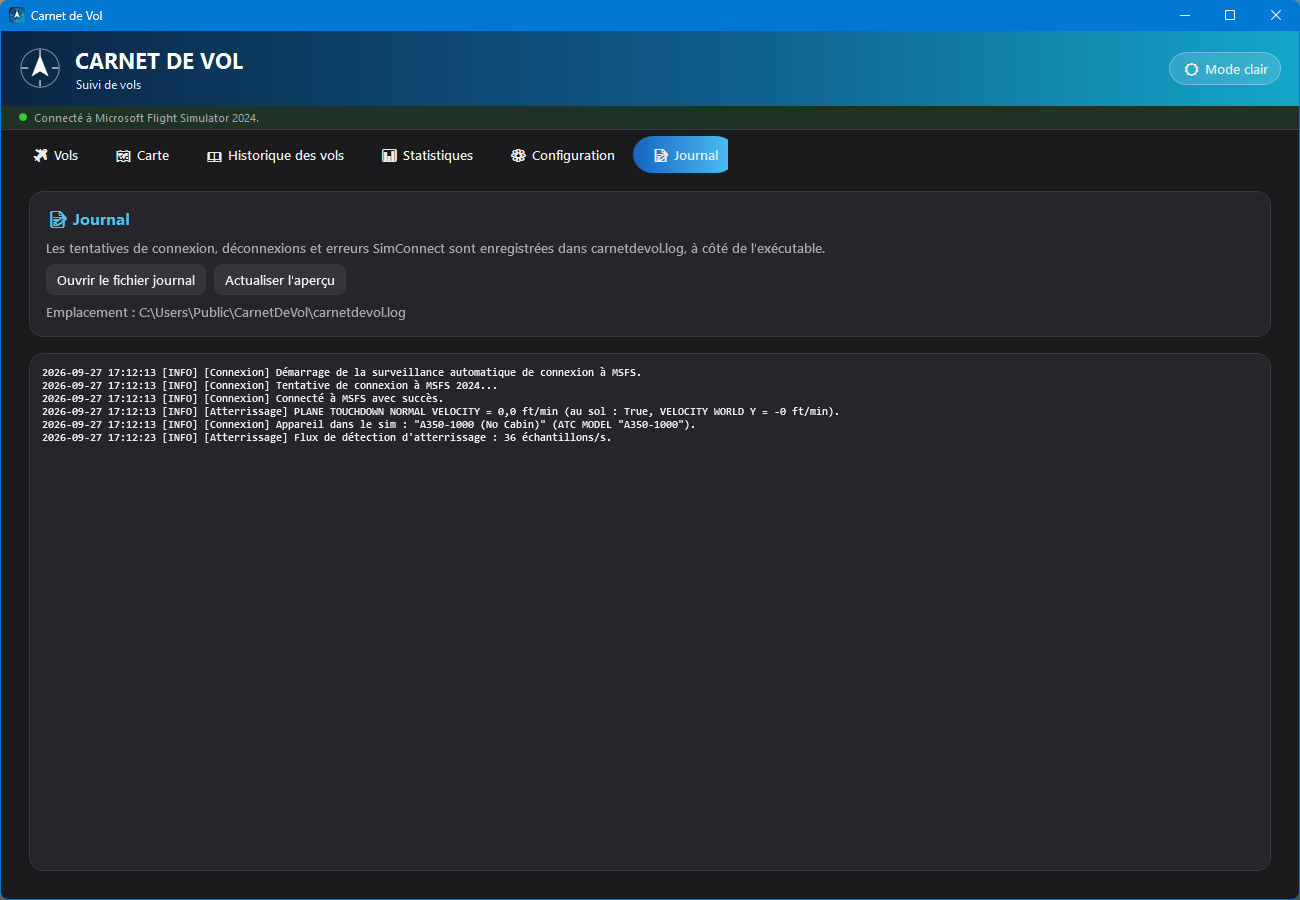
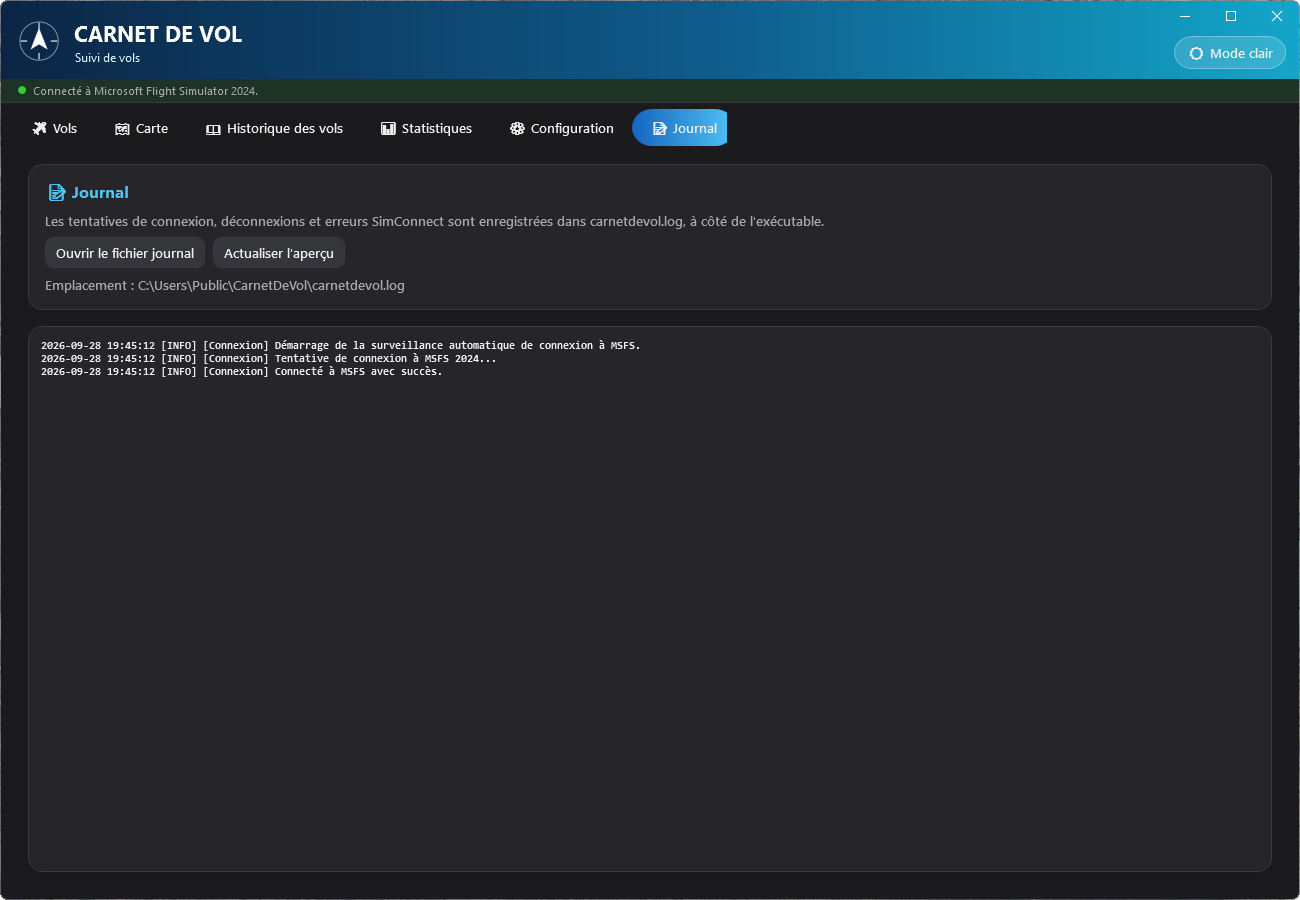
Carnet de Vol : guides, captures et plaquettes avec la fenêtre sans cadre
- Guides fr/en/es recopiés (fenêtre sans cadre, zoom et tracé de la carte) et
  leurs 12 captures refaites.
- Captures des plaquettes (assets/img/carnetdevol) recopiées : nouvel en-tête,
  hauteur 893 -> 866 px, reportée dans SIZES, les <img> de l'accueil et
  og:image:height.

Changed region(s): [[0.0, 0.0, 1.0, 0.4978], [0.0, 0.9956, 1.0, 1.0], [0.6154, 0.4356, 0.6462, 0.4667]]

diff --git a/guides/carnetdevol/guide-utilisateur.html b/guides/carnetdevol/guide-utilisateur.html
@@ -354,13 +354,17 @@
 
     <section id="interface">
       <h2 class="section-title"><span class="emoji">🖥</span> 3. Interface générale</h2>
-      <p class="section-lead">La bannière, l'indicateur de connexion, les six onglets et le thème.</p>
+      <p class="section-lead">La bannière-barre de titre, l'indicateur de connexion, les six onglets et le thème.</p>
       <div class="card">
         <p>La fenêtre principale est organisée en trois zones fixes, quel que soit l'onglet actif :</p>
         <ul>
-          <li>Une <strong>bannière</strong> en haut, avec le bouton <span class="btn-label">🌙 Mode sombre</span>
-          / <span class="btn-label">☀ Mode clair</span> qui bascule instantanément tout le thème de
-          l'application (persisté d'une session à l'autre) ;</li>
+          <li>Une <strong>bannière</strong> en haut, qui sert aussi de <strong>barre de titre</strong> :
+          la fenêtre n'a pas de cadre Windows classique. En haut à droite, les boutons
+          <strong>Réduire</strong>, <strong>Agrandir</strong> / <strong>Restaurer</strong> et
+          <strong>Fermer</strong> (qui passe au rouge au survol) ; juste en dessous, le bouton
+          <span class="btn-label">🌙 Mode sombre</span> / <span class="btn-label">☀ Mode clair</span>
+          qui bascule instantanément tout le thème de l'application (persisté d'une session à
+          l'autre) ;</li>
           <li>Juste en dessous, une <strong>fine barre d'état</strong> avec un point de couleur
           (rouge = non connecté, vert = connecté) et un texte indiquant l'état de la connexion à
           MSFS 2024. Tant qu'elle n'est pas connectée, l'application retente automatiquement
@@ -368,6 +372,16 @@
           <li><strong>Six onglets</strong> : Vols, Carte, Historique des vols, Statistiques,
           Configuration, Journal — détaillés dans les sections suivantes.</li>
         </ul>
+        <div class="callout tip">
+          <strong>Déplacer et redimensionner la fenêtre</strong>
+          Faites glisser la bannière pour déplacer la fenêtre, double-cliquez dessus pour l'agrandir
+          ou la restaurer, et tirez sur ses bords pour la redimensionner. Sous Windows 11, survolez
+          le bouton <span class="ui">Agrandir</span> pour afficher le menu d'ancrage
+          (moitié d'écran, quart d'écran…), comme sur n'importe quelle application ; l'ancrage en
+          faisant glisser la fenêtre vers un bord de l'écran fonctionne aussi. Un clic droit sur la
+          bannière ouvre le menu système de Windows. La fenêtre garde ses coins arrondis et son
+          ombre, et une fois agrandie elle laisse la barre des tâches visible.
+        </div>
         <p>L'application s'affiche dans la <strong>langue de Windows</strong> si elle est disponible
         (français, anglais ou espagnol, quelle que soit la variante régionale : français canadien ou belge,
         anglais britannique ou américain…), et en <strong>anglais</strong> sinon. Vous pouvez en
@@ -375,7 +389,8 @@
         <div class="shot-row">
           <figure>
             <img src="images/fr-onglet-vols-sombre.png" alt="Application en mode sombre, onglet Vols, connectée à MSFS 2024" loading="lazy" />
-            <figcaption>Mode sombre (par défaut au premier lancement) — connecté à MSFS 2024.</figcaption>
+            <figcaption>Mode sombre (par défaut au premier lancement) — connecté à MSFS 2024 ; boutons
+            de fenêtre en haut à droite de la bannière.</figcaption>
           </figure>
           <figure>
             <img src="images/fr-onglet-vols-clair.png" alt="Application en mode clair, onglet Vols" loading="lazy" />
@@ -582,8 +597,12 @@
           pour vous laisser regarder ailleurs sans être « recentré » de force.</td></tr>
           <tr><td>Mode sombre de la carte (lune/soleil)</td><td>Bascule l'apparence des tuiles
           OpenStreetMap indépendamment du thème général de l'application.</td></tr>
-          <tr><td>+ / −</td><td>Zoom avant / arrière.</td></tr>
+          <tr><td>+ / −</td><td>Zoom avant / arrière, autour du centre de la partie visible de
+          la carte (au-dessus du panneau « Données en direct ») : le point que vous regardez reste
+          en place.</td></tr>
         </table>
+        <p>Le tracé reste affiché <strong>à tous les niveaux de zoom</strong>, même pour un long
+        vol observé de très près (par exemple le roulage à l'arrivée d'un long-courrier).</p>
         <p>Une <strong>échelle verticale</strong> graduée (en Nm) s'affiche sous ces boutons dès
         l'ouverture de l'onglet et se recalcule automatiquement à chaque changement de zoom ou de
         position, comme sur une carte papier classique. Elle garde la largeur des boutons, la

diff --git a/guides/carnetdevol/guia-usuario.html b/guides/carnetdevol/guia-usuario.html
@@ -361,13 +361,16 @@
 
     <section id="interfaz">
       <h2 class="section-title"><span class="emoji">🖥</span> 3. Interfaz general</h2>
-      <p class="section-lead">El encabezado, el indicador de conexión, las seis pestañas, el tema y el idioma.</p>
+      <p class="section-lead">El encabezado/barra de título, el indicador de conexión, las seis pestañas, el tema y el idioma.</p>
       <div class="card">
         <p>La ventana principal tiene tres zonas fijas, sea cual sea la pestaña activa:</p>
         <ul>
-          <li>Un <strong>encabezado</strong> arriba, con el botón <span class="btn-label">🌙 Modo oscuro</span>
-          / <span class="btn-label">☀ Modo claro</span> que cambia al instante el tema de toda la
-          aplicación (se recuerda entre sesiones);</li>
+          <li>Un <strong>encabezado</strong> arriba, que también hace de <strong>barra de título</strong>:
+          la ventana no tiene el marco clásico de Windows. Arriba a la derecha, los botones
+          <strong>Minimizar</strong>, <strong>Maximizar</strong> / <strong>Restaurar</strong> y
+          <strong>Cerrar</strong> (que se vuelve rojo al pasar el ratón); justo debajo, el botón
+          <span class="btn-label">🌙 Modo oscuro</span> / <span class="btn-label">☀ Modo claro</span>
+          que cambia al instante el tema de toda la aplicación (se recuerda entre sesiones);</li>
           <li>Justo debajo, una <strong>barra de estado</strong> con un punto de color (rojo = no
           conectado, verde = conectado) y un texto con el estado de la conexión a MSFS 2024.
           Mientras no está conectada, la aplicación lo reintenta automáticamente cada
@@ -375,6 +378,16 @@
           <li><strong>Seis pestañas</strong>: Vuelos, Mapa, Historial de vuelos, Estadísticas,
           Configuración y Registro, descritas en las secciones siguientes.</li>
         </ul>
+        <div class="callout tip">
+          <strong>Mover y redimensionar la ventana</strong>
+          Arrastre el encabezado para mover la ventana, haga doble clic en él para maximizarla o
+          restaurarla, y arrastre sus bordes para cambiar su tamaño. En Windows 11, pase el ratón
+          sobre el botón <span class="ui">Maximizar</span> para mostrar el menú de diseños de
+          acoplamiento (media pantalla, cuarto de pantalla…), como en cualquier otra
+          aplicación; acoplarla arrastrándola hasta un borde de la pantalla también funciona. Un clic
+          derecho en el encabezado abre el menú del sistema de Windows. La ventana conserva sus
+          esquinas redondeadas y su sombra, y maximizada deja visible la barra de tareas.
+        </div>
         <p>La aplicación se muestra en el <strong>idioma de Windows</strong> si está disponible
         (español, francés o inglés, sea cual sea la variante regional: español de España, de México,
         de Argentina…), y en <strong>inglés</strong> en caso contrario. Puede cambiarlo en cualquier
@@ -382,7 +395,8 @@
         <div class="shot-row">
           <figure>
             <img src="images/es-onglet-vols-sombre.png" alt="Aplicación en modo oscuro, pestaña Vuelos, conectada a MSFS 2024" loading="lazy" />
-            <figcaption>Modo oscuro (predeterminado en el primer inicio), conectada a MSFS 2024.</figcaption>
+            <figcaption>Modo oscuro (predeterminado en el primer inicio), conectada a MSFS 2024; botones
+            de ventana arriba a la derecha del encabezado.</figcaption>
           </figure>
           <figure>
             <img src="images/es-onglet-vols-clair.png" alt="Aplicación en modo claro, pestaña Vuelos" loading="lazy" />
@@ -589,8 +603,12 @@
           para que pueda mirar a otra parte sin que se le «recentre» a la fuerza.</td></tr>
           <tr><td>Mapa oscuro (luna/sol)</td><td>Cambia el aspecto de los mosaicos de
           OpenStreetMap, independientemente del tema de la aplicación.</td></tr>
-          <tr><td>+ / −</td><td>Acercar / alejar.</td></tr>
+          <tr><td>+ / −</td><td>Acercar / alejar, alrededor del centro de la parte visible del mapa
+          (encima del panel «Datos en directo»): el punto que está mirando no se mueve.</td></tr>
         </table>
+        <p>El trazado sigue visible <strong>en todos los niveles de zoom</strong>, incluso en un
+        vuelo largo visto muy de cerca (por ejemplo, el rodaje a la llegada de un vuelo de largo
+        radio).</p>
         <p>Una <strong>escala vertical</strong> graduada (en Nm) aparece bajo estos botones en
         cuanto se abre la pestaña y se recalcula automáticamente con cada cambio de zoom o de
         posición, como en una carta de papel. Mantiene el ancho de los botones, con el valor y la

diff --git a/guides/carnetdevol/user-guide.html b/guides/carnetdevol/user-guide.html
@@ -359,11 +359,14 @@
 
     <section id="interface">
       <h2 class="section-title"><span class="emoji">🖥</span> 3. General interface</h2>
-      <p class="section-lead">The banner, the connection indicator, the six tabs, the theme and the language.</p>
+      <p class="section-lead">The banner/title bar, the connection indicator, the six tabs, the theme and the language.</p>
       <div class="card">
         <p>The main window has three fixed areas, whatever the active tab:</p>
         <ul>
-          <li>A <strong>banner</strong> at the top, with the <span class="btn-label">🌙 Dark mode</span>
+          <li>A <strong>banner</strong> at the top, which also acts as the <strong>title bar</strong>:
+          the window has no classic Windows frame. At the top right, the <strong>Minimize</strong>,
+          <strong>Maximize</strong> / <strong>Restore</strong> and <strong>Close</strong> buttons
+          (Close turns red on hover); just below them, the <span class="btn-label">🌙 Dark mode</span>
           / <span class="btn-label">☀ Light mode</span> button that instantly switches the whole
           application theme (remembered between sessions);</li>
           <li>Just below, a <strong>thin status bar</strong> with a coloured dot (red = not
@@ -373,6 +376,15 @@
           <li><strong>Six tabs</strong>: Flights, Map, Flight history, Statistics, Settings, Log —
           described in the following sections.</li>
         </ul>
+        <div class="callout tip">
+          <strong>Moving and resizing the window</strong>
+          Drag the banner to move the window, double-click it to maximize or restore, and drag its
+          edges to resize it. On Windows 11, hover over the <span class="ui">Maximize</span> button to show
+          the snap layouts menu (half screen, quarter screen…), just like in any other
+          application; snapping by dragging the window to a screen edge works too. Right-clicking the
+          banner opens the Windows system menu. The window keeps its rounded corners and shadow, and
+          when maximized it leaves the taskbar visible.
+        </div>
         <p>The application is displayed in the <strong>Windows language</strong> when it is
         available (English, French or Spanish, whatever the regional variant: Canadian or Belgian French,
         British or American English…), and in <strong>English</strong> otherwise. You can change it
@@ -380,7 +392,8 @@
         <div class="shot-row">
           <figure>
             <img src="images/en-onglet-vols-sombre.png" alt="Application in dark mode, Flights tab, connected to MSFS 2024" loading="lazy" />
-            <figcaption>Dark mode (default on first launch) — connected to MSFS 2024.</figcaption>
+            <figcaption>Dark mode (default on first launch) — connected to MSFS 2024; window buttons at
+            the top right of the banner.</figcaption>
           </figure>
           <figure>
             <img src="images/en-onglet-vols-clair.png" alt="Application in light mode, Flights tab" loading="lazy" />
@@ -580,8 +593,11 @@
           elsewhere without being forcibly “recentered”.</td></tr>
           <tr><td>Dark map (moon/sun)</td><td>Switches the look of the OpenStreetMap tiles,
           independently of the application theme.</td></tr>
-          <tr><td>+ / −</td><td>Zoom in / out.</td></tr>
+          <tr><td>+ / −</td><td>Zoom in / out, around the centre of the visible part of the map
+          (above the “Live data” panel): the spot you are looking at stays in place.</td></tr>
         </table>
+        <p>The track stays visible <strong>at every zoom level</strong>, even for a long flight
+        viewed up close (for example taxiing in at the end of a long-haul flight).</p>
         <p>A graduated <strong>vertical scale</strong> (in Nm) is shown below these buttons as soon
         as the tab opens and is recomputed automatically at every zoom or position change, like on
         a paper chart. It keeps the width of the buttons, with the value and the unit on two lines.</p>

diff --git a/index.html b/index.html
@@ -23,7 +23,7 @@
   <meta property="og:description" content="Deux applications Windows gratuites pour Microsoft Flight Simulator 2024 : Carnet de Vol enregistre, note et cartographie chacun de vos vols ; Camify filme votre avion comme au cinéma." />
   <meta property="og:image" content="http://cdl.kairhosen.com/assets/img/carnetdevol/fr-carte.jpg" />
   <meta property="og:image:width" content="1286" />
-  <meta property="og:image:height" content="893" />
+  <meta property="og:image:height" content="866" />
   <meta name="twitter:card" content="summary_large_image" />
   <script src="assets/js/i18n.js"></script>
 </head>
@@ -70,8 +70,8 @@
             <li data-i18n="cdv.check3"></li>
           </ul>
           <div class="panel-visual cdv-collage" aria-hidden="true">
-            <div class="shot back"><img data-shot="cdv:historique" alt="" width="1845" height="893" /></div>
-            <div class="shot front"><img data-shot="cdv:carte" alt="" width="1286" height="893" /></div>
+            <div class="shot back"><img data-shot="cdv:historique" alt="" width="1845" height="866" /></div>
+            <div class="shot front"><img data-shot="cdv:carte" alt="" width="1286" height="866" /></div>
             <div class="shot popup"><img data-shot="cdv:atterrissage" alt="" width="344" height="134" /></div>
           </div>
           <div class="download-card">

diff --git a/index-en.html b/index-en.html
@@ -23,7 +23,7 @@
   <meta property="og:description" content="Two free Windows applications for Microsoft Flight Simulator 2024: Flight Logbook records, rates and maps every flight; Camify films your aircraft like a movie." />
   <meta property="og:image" content="http://cdl.kairhosen.com/assets/img/carnetdevol/en-carte.jpg" />
   <meta property="og:image:width" content="1286" />
-  <meta property="og:image:height" content="893" />
+  <meta property="og:image:height" content="866" />
   <meta name="twitter:card" content="summary_large_image" />
   <script src="assets/js/i18n.js"></script>
 </head>
@@ -70,8 +70,8 @@
             <li data-i18n="cdv.check3"></li>
           </ul>
           <div class="panel-visual cdv-collage" aria-hidden="true">
-            <div class="shot back"><img data-shot="cdv:historique" alt="" width="1845" height="893" /></div>
-            <div class="shot front"><img data-shot="cdv:carte" alt="" width="1286" height="893" /></div>
+            <div class="shot back"><img data-shot="cdv:historique" alt="" width="1845" height="866" /></div>
+            <div class="shot front"><img data-shot="cdv:carte" alt="" width="1286" height="866" /></div>
             <div class="shot popup"><img data-shot="cdv:atterrissage" alt="" width="344" height="134" /></div>
           </div>
           <div class="download-card">

diff --git a/copyright.html b/copyright.html
@@ -23,7 +23,7 @@
   <meta property="og:description" content="Copyright, marques, sources de données et licences de Carnet de Vol et de Camify." />
   <meta property="og:image" content="http://cdl.kairhosen.com/assets/img/carnetdevol/fr-carte.jpg" />
   <meta property="og:image:width" content="1286" />
-  <meta property="og:image:height" content="893" />
+  <meta property="og:image:height" content="866" />
   <meta name="twitter:card" content="summary_large_image" />
   <script src="assets/js/i18n.js"></script>
 </head>

diff --git a/copyright-en.html b/copyright-en.html
@@ -23,7 +23,7 @@
   <meta property="og:description" content="Copyright, trademarks, data sources and licences of Flight Logbook and Camify." />
   <meta property="og:image" content="http://cdl.kairhosen.com/assets/img/carnetdevol/en-carte.jpg" />
   <meta property="og:image:width" content="1286" />
-  <meta property="og:image:height" content="893" />
+  <meta property="og:image:height" content="866" />
   <meta name="twitter:card" content="summary_large_image" />
   <script src="assets/js/i18n.js"></script>
 </head>

diff --git a/assets/js/main.js b/assets/js/main.js
@@ -104,8 +104,8 @@
   }
 
   var SIZES = {
-    vols: [1286, 893], carte: [1286, 893], historique: [1845, 893],
-    stats: [1286, 893], config: [1286, 893], atterrissage: [344, 134]
+    vols: [1286, 866], carte: [1286, 866], historique: [1845, 866],
+    stats: [1286, 866], config: [1286, 866], atterrissage: [344, 134]
   };
   var CAMIFY_SIZES = {
     "camera-sombre": [1000, 742], "camera-clair": [1000, 544], flyby: [1000, 666],
